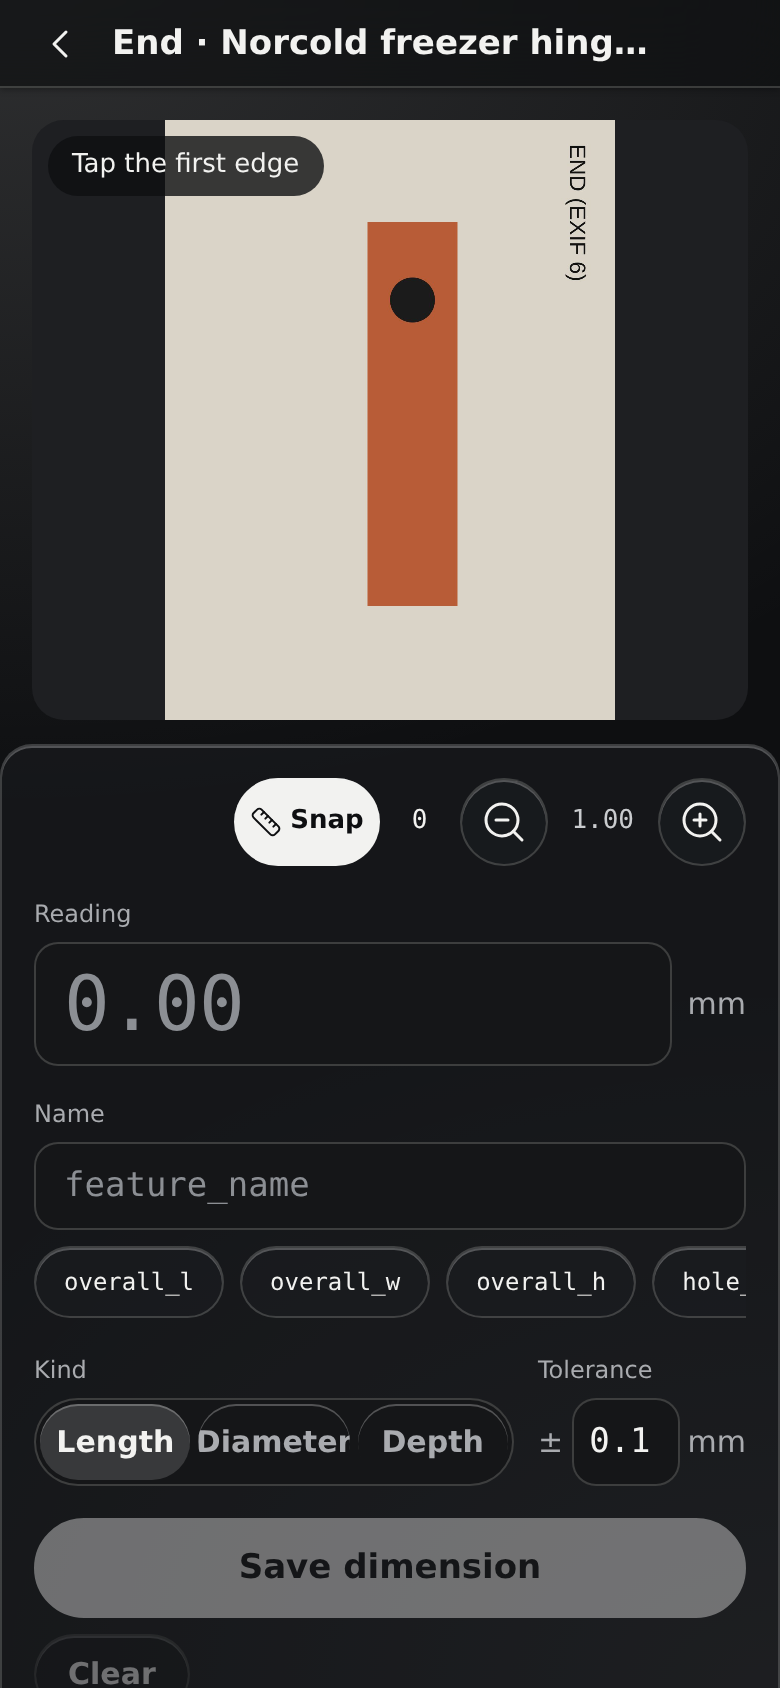
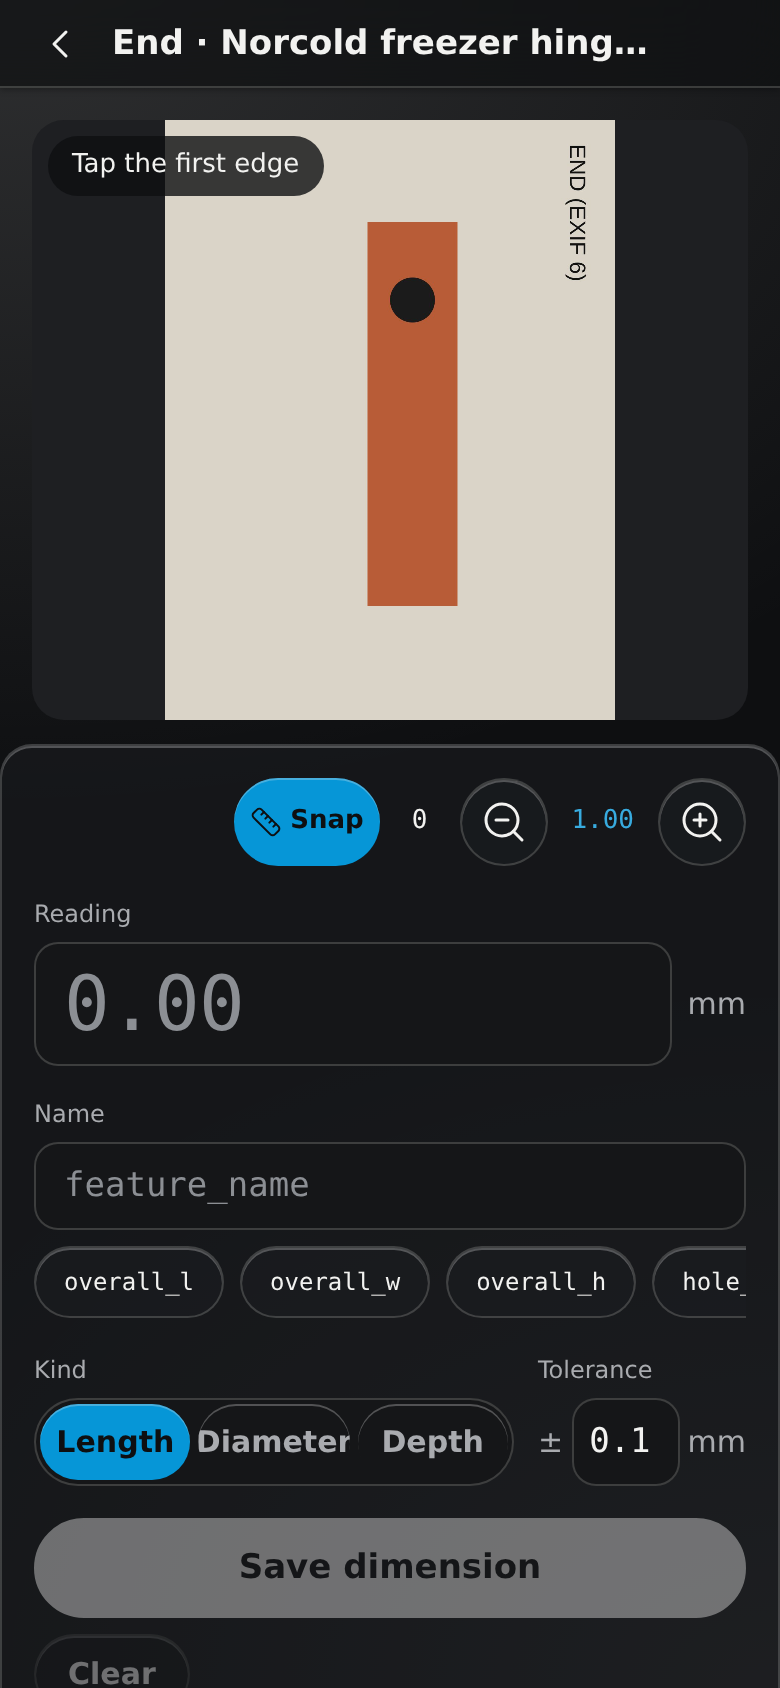
design: S2 splash — Fusion sketch blue for measured and verified geometry
Overlay.res ink/live → autodeskBlue-400; the live token family → the
Autodesk steps with a blue-500 fill for the on states (Snap, selected
segment, pressed chips) and blue rings/badges on face cards. The ivory
primary, the blur budget and the icon are unchanged. The export legibility
test now looks for the blue line.

Claude-Session: https://claude.ai/code/session_01FsAhZaHgHGgbtGbZDXL5EZ

Changed region(s): [[0.2769, 0.4621, 0.4923, 0.5237], [0.0308, 0.8318, 0.2462, 0.8934], [0.7692, 0.4621, 0.8, 0.4929]]

diff --git a/e2e/specs/export.spec.js b/e2e/specs/export.spec.js
@@ -434,7 +434,7 @@ const pixelAt = (png, x, y) => {
 //
 // Thresholds: the ink line is exactly `Overlay.ink` #F2F2F0 = (242,242,240)
 // even after PNG's lossless re-encode, so `isInk` uses a tight window
-// (every channel in [225, 250], max−min <= 12) rather than an unbounded
+// around the blue ink (see the predicate) rather than an unbounded
 // "channel >= 200", which would pass the white photo itself
 // (255,255,255) with no line drawn at all. The halo (`Overlay.halo`,
 // cc-ground at 85 %) composited over a pure-white background works out to
@@ -446,8 +446,10 @@ function sampleLegibility(png, {xFrac, yFrac, spanPx}) {
   const cx = Math.round(png.width * xFrac)
   const cy = Math.round(png.height * yFrac)
   const isHalo = ({r, g, b}) => r < 70 && g < 70 && b < 70
-  const isInk = ({r, g, b}) =>
-    [r, g, b].every(c => c >= 225 && c <= 250) && Math.max(r, g, b) - Math.min(r, g, b) <= 12
+  // S2: the line is Overlay.ink = autodeskBlue-400 (56, 171, 223); a ±18 window
+  // per channel survives the PNG round trip and still rejects the white photo
+  // (255, 255, 255), the pale fixture and the dark halo.
+  const isInk = ({r, g, b}) => r >= 38 && r <= 74 && g >= 153 && g <= 189 && b >= 205 && b <= 241
 
   const column = []
   for (let y = Math.max(0, cy - spanPx); y <= Math.min(png.height - 1, cy + spanPx); y++) {

diff --git a/src/theme.css b/src/theme.css
@@ -31,10 +31,16 @@
   --cc-accent: #f2f2f0; /* = text: the primary is an ivory fill, not a hue */
   --cc-accent-pressed: #d9dadb; /* §6: pressed = the ivory fill, −8 L */
   --cc-accent-ink: #0e0f11; /* = ground: the label on an ivory fill (17:1) */
-  --cc-live: #c9cbce; /* captured ring, check badge, snap ring, mono readouts */
-  --cc-live-wash: #26272b;
-  --cc-live-ink: #f2f2f0;
-  --cc-live-border: #45484d;
+  /* S2 splash (branding-snapkin.md §9): "live / verified" is Fusion's sketch
+     blue. 400 for rings, badges, text and the canvas (7.36:1 on ground);
+     500 as a fill with a ground label (5.80:1) for the "on" states — Snap
+     pill, selected segment, pressed chips. Tappable stays the ivory fill. */
+  --cc-live: #38abdf; /* autodeskBlue-400: captured ring, selected ring, check badge, snap ring, live readouts */
+  --cc-live-wash: #0a324d; /* autodeskBlue-900 */
+  --cc-live-ink: #cdeaf7; /* autodeskBlue-100: text on live wash (10.6:1) */
+  --cc-live-border: #0696d7; /* autodeskBlue-500 */
+  --cc-live-fill: #0696d7; /* autodeskBlue-500: the "on" fill */
+  --cc-live-fill-pressed: #0684be; /* −8 L, 4.61:1 with a ground label */
   --cc-error: #f0605a;
   --cc-error-ink: #2b0a0a;
   --cc-error-wash: rgb(240 96 90 / 0.2); /* §4 warning row (error): cc-error at 20% */

diff --git a/src/global.css b/src/global.css
@@ -909,8 +909,9 @@ textarea:disabled {
    chips around it, and `aria-pressed` carries the state for everyone else. */
 .chip-selected,
 .chip[aria-pressed="true"] {
-  background: var(--cc-text);
-  border-color: var(--cc-text);
+  /* S2: "on" is the live fill (Fusion blue-500), tappable stays ivory. */
+  background: var(--cc-live-fill);
+  border-color: var(--cc-live-fill);
   box-shadow: none;
   color: var(--cc-accent-ink);
 }
@@ -963,8 +964,9 @@ textarea:disabled {
    stays the one ivory capsule on Annotate (review S2). A literal, not a
    token: it is the only 16 % surface in the app. */
 .segmented-option[aria-pressed="true"] {
-  background: rgba(242, 242, 240, 0.16);
-  color: var(--cc-text);
+  /* S2: the selected segment is "on" — live fill, ground label (5.80:1). */
+  background: var(--cc-live-fill);
+  color: var(--cc-accent-ink);
 }
 
 .segmented-option:focus-visible {
@@ -1363,7 +1365,7 @@ button.warning-row {
 }
 
 .face-card-selected::after {
-  border: 2px solid var(--cc-text); /* A14: selected = the `text` ring; captured = `live` */
+  border: 2px solid var(--cc-live); /* S2: selected and captured both ring in the live blue */
 }
 
 /* Bottom scrim: cc-ground/cc-scrim's rgb (A14 mono: 14,15,17) at a

diff --git a/src/app/pages/Annotate.css b/src/app/pages/Annotate.css
@@ -137,7 +137,8 @@
 }
 
 .annotate-tools .annotate-snap[aria-pressed="true"] {
-  background: var(--cc-text);
+  /* S2: Snap on = the live fill; snapped taps are geometry, and geometry is blue. */
+  background: var(--cc-live-fill);
   color: var(--cc-accent-ink);
 }
 

diff --git a/DESIGN.md b/DESIGN.md
@@ -35,10 +35,11 @@ leaves the wash less headroom (`docs/design/a14-glass-review.md` S3).
 | `cc-accent` | = `cc-text` `#F2F2F0` | the *rule* changed from hue to fill, not a value swap — see §4's fill/outline table for what each control does with it |
 | `cc-accent-pressed` | `#D9DADB` | primary button pressed state (§6) |
 | `cc-accent-ink` | `#0E0F11` | text on an ivory accent fill |
-| `cc-live` | `#C9CBCE` | the snap ring, `Ui.WarningRow` Live, `.annotate-dim-row` selected — the only `live-*` surfaces |
-| `cc-live-wash` | `#26272B` | live badge/banner background |
-| `cc-live-ink` | `#F2F2F0` | text on live wash |
-| `cc-live-border` | `#45484D` | border for live wash cards |
+| `cc-live` | `#38ABDF` | Fusion's sketch blue (autodeskBlue-400): the canvas and export overlays, the snap ring, captured and selected rings, the check badge, `Ui.WarningRow` Live, `.annotate-dim-row` selected (S2 splash, `docs/design/branding-snapkin.md` §9) |
+| `cc-live-wash` | `#0A324D` | live badge/banner background (autodeskBlue-900) |
+| `cc-live-ink` | `#CDEAF7` | text on live wash (autodeskBlue-100, 10.6:1) |
+| `cc-live-border` | `#0696D7` | border for live wash cards (autodeskBlue-500) |
+| `cc-live-fill` | `#0696D7` | the "on" fill — Snap pill, selected segment, pressed chips — with a `cc-ground` label (5.80:1); tappable stays the ivory `cc-accent` fill |
 | `cc-error` | `#F0605A` | invalid input border and inline message; text on it `#2B0A0A` — the one chroma in the app |
 | `cc-error-wash` | `rgb(240 96 90 / 0.2)` | error banner/badge background |
 | `cc-photo-mat` | `#1E1F22` | canvas background behind letterboxed photos |

diff --git a/docs/design/branding-snapkin.md b/docs/design/branding-snapkin.md
@@ -331,3 +331,7 @@ canvas, in the export, and once in the icon — which is what "the blue from the
 costs two constants in one file, keeps the mono fill rule and the ivory primary intact, and keeps the
 blur budget. S2 is the honest next step if the owner wants blue in the UI (it stays coherent: snapped =
 geometry); S3 and S4 trade A14's hierarchy for colour and are not recommended.
+
+**Adopted 2026-09-18: S2 Live.** `Overlay.res` ink + live → `#38ABDF`; `theme.css` live family → the
+Autodesk steps plus `--cc-live-fill` `#0696D7` (pressed `#0684BE`); chip on, selected segment, Snap on and
+the selected face ring take the live fill / ring. The icon stays ivory for now (owner's call).
